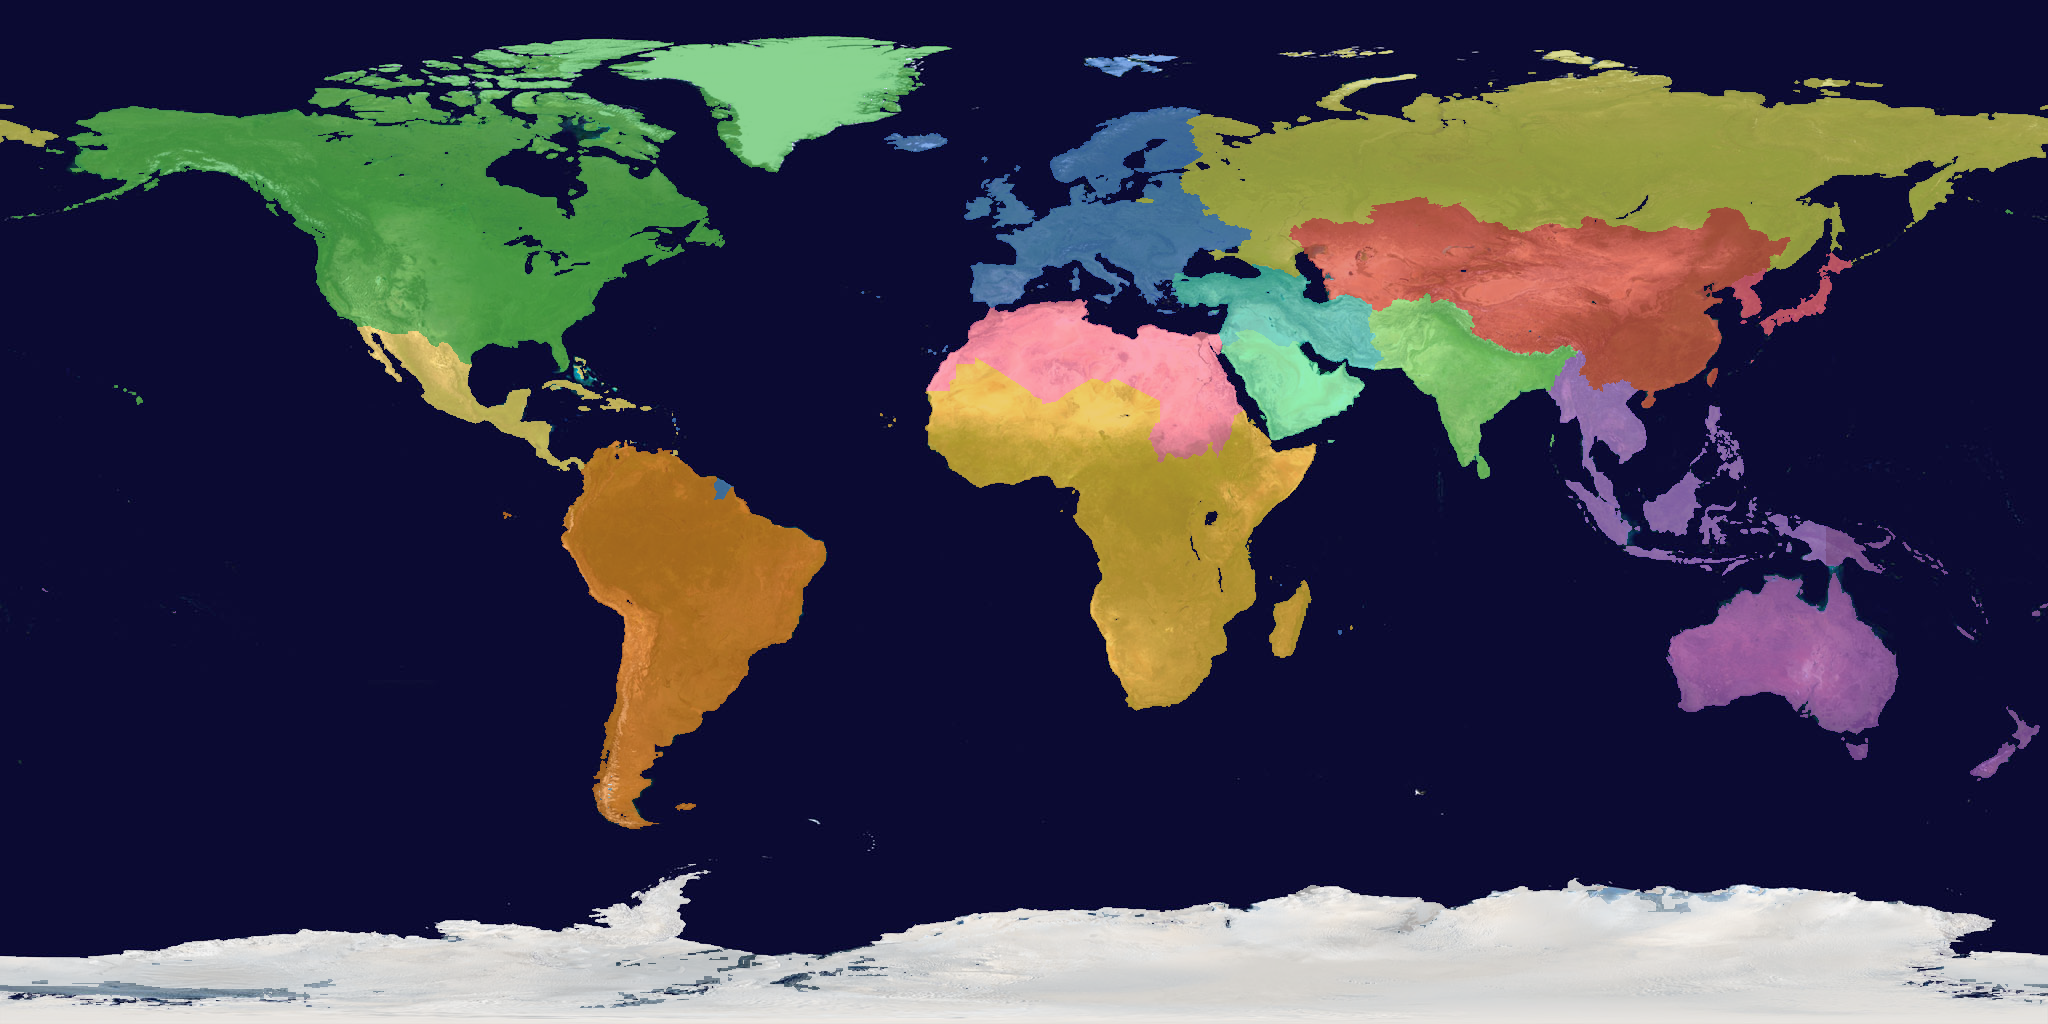
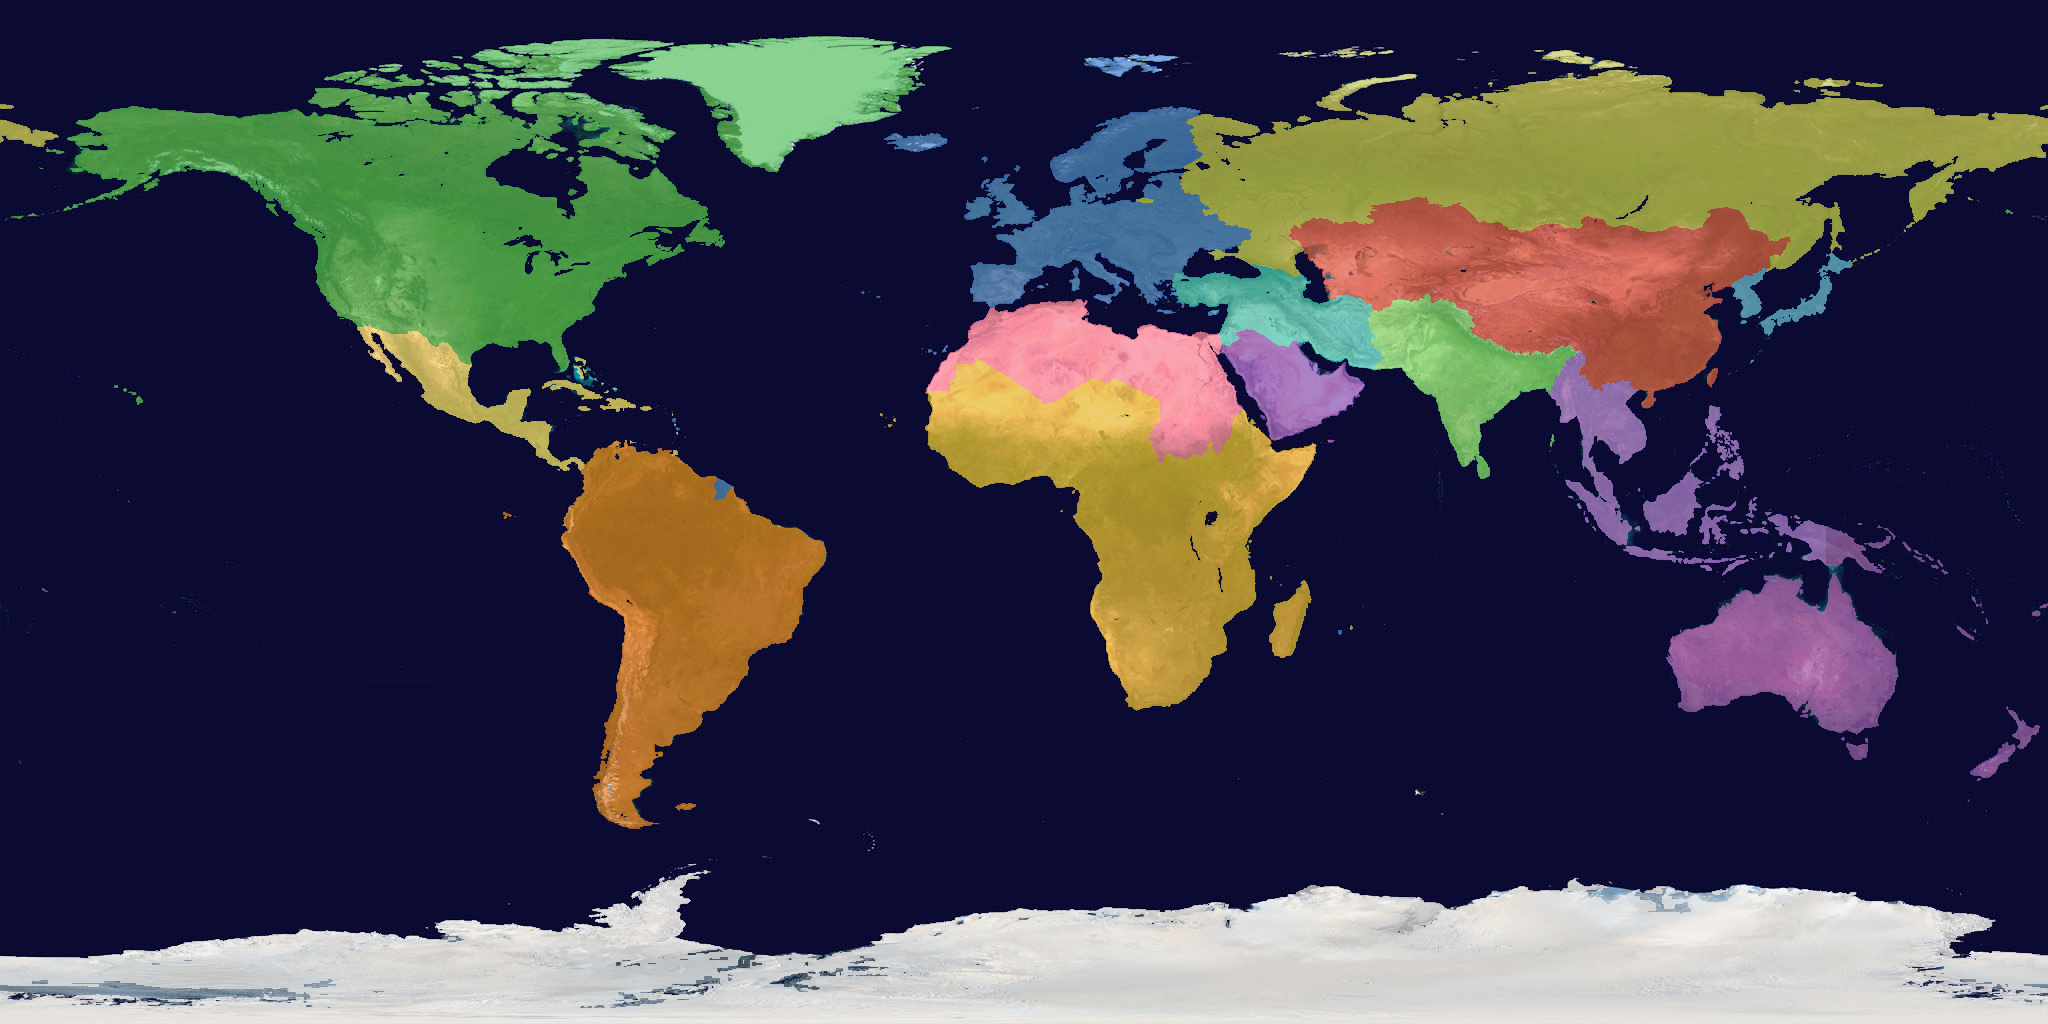
Japan and Korea a sky blue, the Arabian Peninsula a violet, in the mask preview
Ticket #125 (version 0.07.2). The designer, looking at the preview of the
fourteen Regions: "make japan a blueish color and saudi arabia more violet."

Those colours live in one place only, the preview picture the mask generator
writes; on the board a Region wears its controller's Faction colour and a
neutral one shows the bare photograph. So this changes the picture and
nothing in the game. The mask was regenerated to prove it and its bytes are
unchanged.

Claude-Session: https://claude.ai/code/session_01D1Kcc9b8TFBJeLVv6Y33YJ

Changed region(s): [[0.5938, 0.3125, 0.6875, 0.4375], [0.8438, 0.25, 0.9062, 0.3438]]

diff --git a/examples/prep_assets.rs b/examples/prep_assets.rs
@@ -328,7 +328,9 @@ fn main() {
         let colours: [[u8; 3]; VALUES] = [
             [0, 0, 0], [230, 180, 60], [240, 240, 240], [220, 80, 80], [160, 90, 200], [70, 130, 220], [80, 190, 90],
             [230, 130, 40], [200, 200, 90], [60, 200, 200], [250, 120, 170], [120, 220, 120], [180, 120, 240], [250, 220, 120],
-            [255, 90, 140], [90, 230, 170],
+            // Ticket #125: Japan and Korea a sky blue, the Arabian Peninsula a violet, at the
+            // designer's word -- and only here: on the board a Region wears its controller's colour.
+            [100, 180, 240], [130, 70, 200],
         ];
         let mut img: RgbImage = ImageBuffer::new(w, h);
         for y in 0..h {
